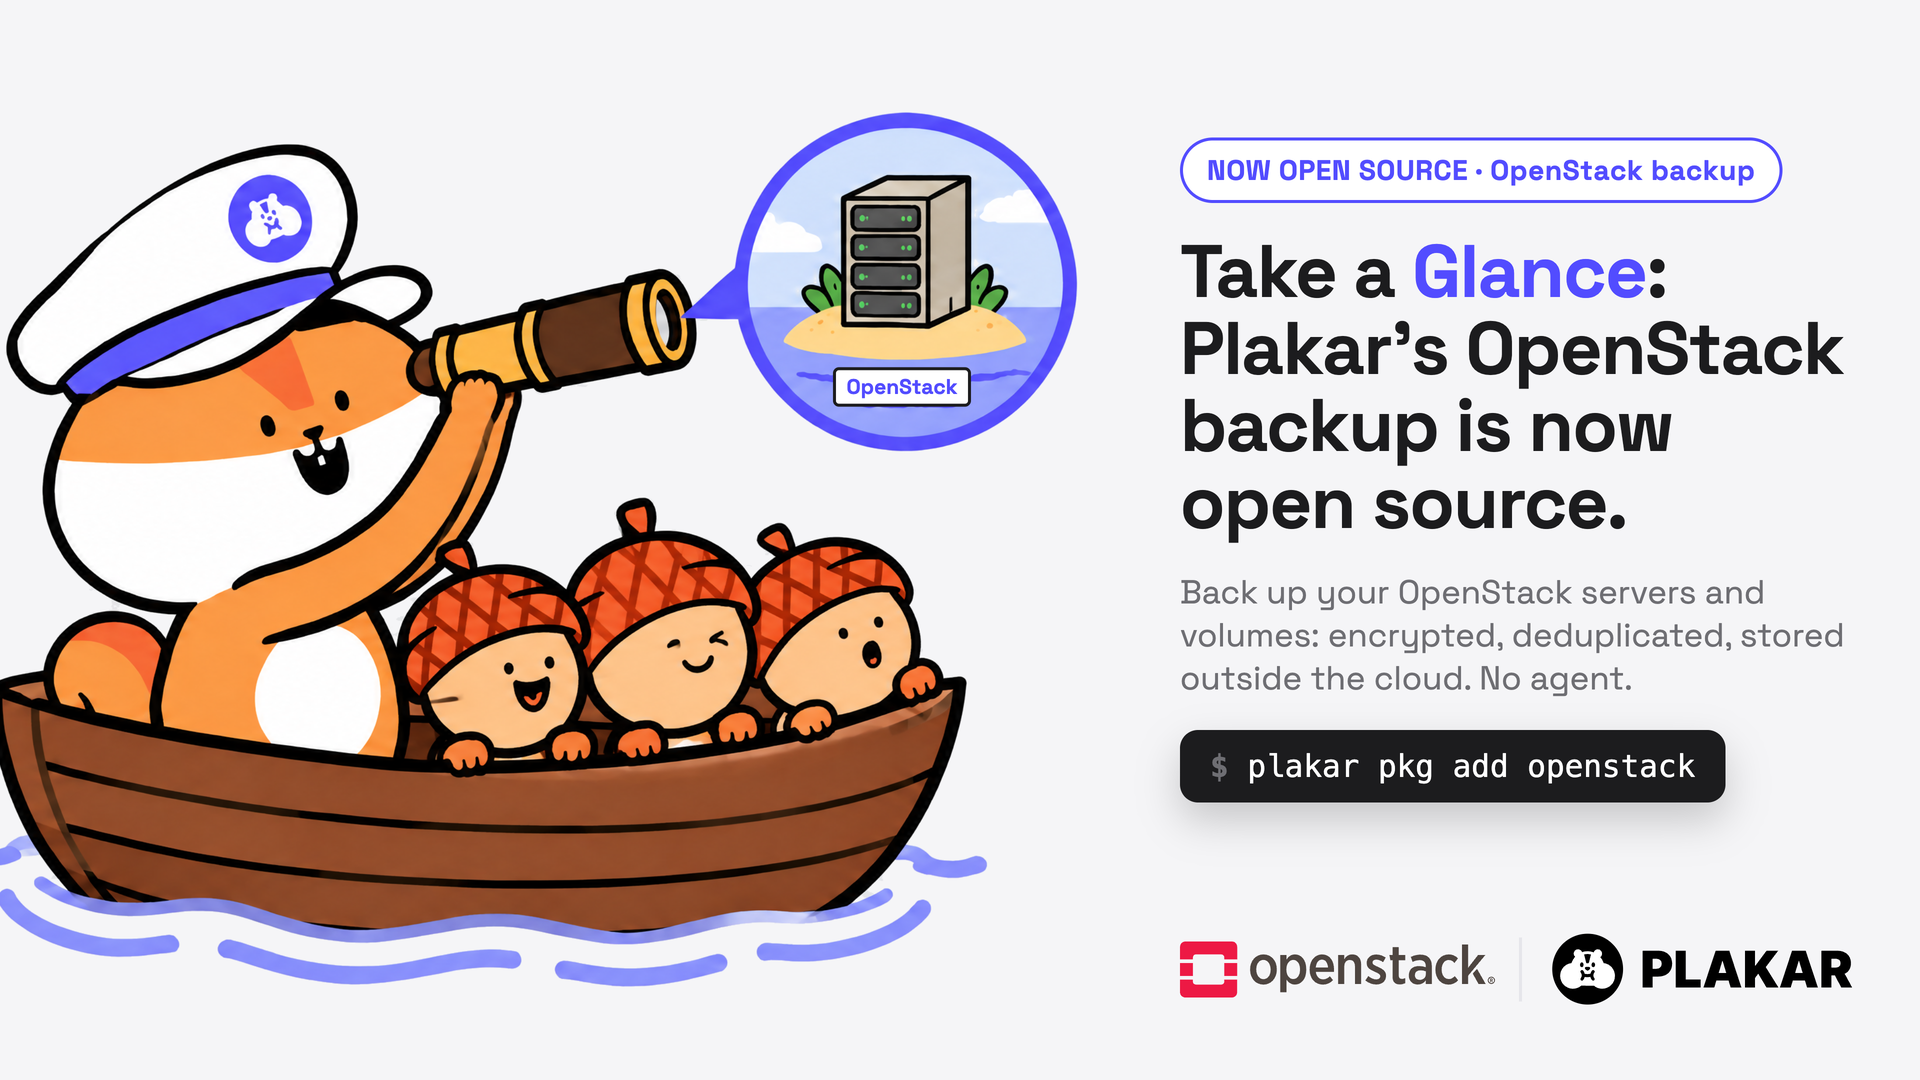
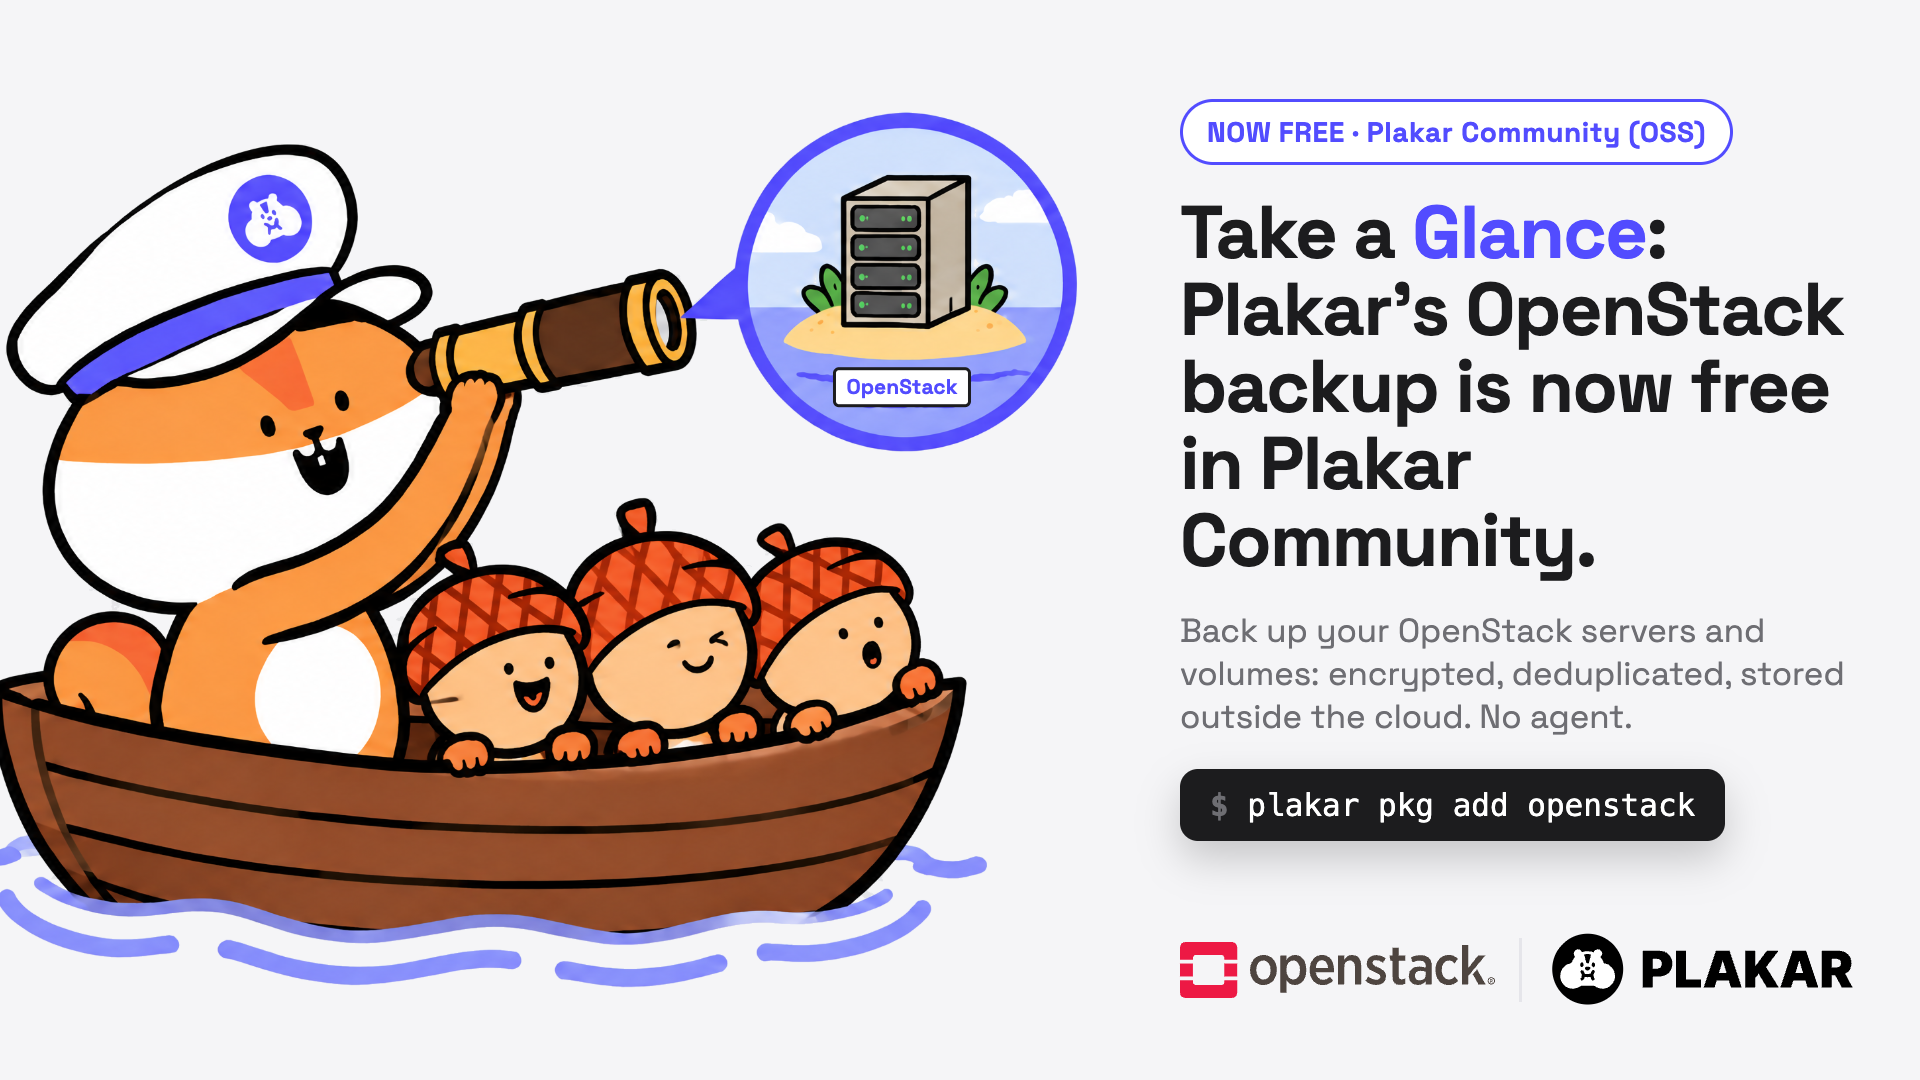
blog: position OpenStack backup as free in Plakar Community
Retitle the post and featured image around Plakar Community (OSS)
instead of open source, and capitalize Plakar in prose.

diff --git a/content/posts/2026-10-22-backing-up-openstack-with-plakar/index.md b/content/posts/2026-10-22-backing-up-openstack-with-plakar/index.md
@@ -1,9 +1,10 @@
 ---
-title: "Take a Glance: plakar's OpenStack backup is now open source"
+title:
+  "Take a Glance: Plakar's OpenStack backup is now free in Plakar Community"
 summary:
-  "plakar's OpenStack backup is now open source: back up and restore Cinder
-  volumes and Nova servers through the OpenStack APIs. No agent. Encrypted and
-  deduplicated."
+  "Plakar's OpenStack backup is now free in Plakar Community (OSS): back up and
+  restore Cinder volumes and Nova servers through the OpenStack APIs. No agent.
+  Encrypted and deduplicated."
 slug: "backing-up-openstack-with-plakar"
 date: "2026-10-22T00:00:00+14:00"
 authors:
@@ -14,7 +15,6 @@ tags:
   - nova
   - cinder
   - backup
-  - open-source
 category: "technology"
 featured-scope:
   - header
@@ -22,21 +22,21 @@ featured-scope:
 
 **TL;DR:**
 
-> Our OpenStack integration, which first shipped in Plakar Control Plane, is
-> now open source and available to everyone in plakar. It backs up and restores
-> Cinder volumes and Nova servers through the OpenStack APIs only, with no agent
-> to install. Backups are encrypted, deduplicated and stored outside the cloud,
-> on any OpenStack cloud, OVHcloud Public Cloud included.
+> Our OpenStack integration, which first shipped in Plakar Control Plane, is now
+> free for everyone in Plakar Community (OSS). It backs up and restores Cinder
+> volumes and Nova servers through the OpenStack APIs only, with no agent to
+> install. Backups are encrypted, deduplicated and stored outside the cloud, on
+> any OpenStack cloud, OVHcloud Public Cloud included.
 
 ---
 
-## Why we built an OpenStack integration, and why we are opening it up
+## Why we built an OpenStack integration, and why we are making it free
 
 We built this integration first and foremost because a large part of Europe's
 independent cloud runs on OpenStack: OVHcloud, Open Telekom Cloud, Cleura,
 Exoscale, etc. In the US the picture is different. AWS, Azure and Google Cloud
-run their own stacks, but OpenStack is still common inside the private clouds
-of large companies, in the telco and higher education sectors for instance.
+run their own stacks, but OpenStack is still common inside the private clouds of
+large companies, in the telco and higher education sectors for instance.
 Wherever it runs, it holds data that needs a real backup. The good news is that
 OpenStack offers truly open APIs, so you can move from one provider to another.
 
@@ -46,30 +46,30 @@ lives in the same Cinder backend as the volume it protects. If that backend is
 lost, wiped or encrypted by an attacker, the snapshot goes with it. The way we
 see it, a backup should be offsite, and you have to hold the keys.
 
-That is also why we are opening it up. The integration was first shipped in
-Plakar Control Plane; today we are open sourcing it and making it available in
-Plakar Community. If strategic autonomy is why you chose OpenStack, you should
-be able to read the code that backs it up, and run it without asking anyone.
+That is also why we are making it free. The integration was first shipped in
+Plakar Control Plane; today it is available to everyone in Plakar Community
+(OSS). If strategic autonomy is why you chose OpenStack, you should be able to
+back it up without asking anyone.
 
-## How plakar backs up OpenStack volumes
+## How Plakar backs up OpenStack volumes
 
 Here is the thing about OpenStack: no API reads a snapshot's bytes. The only
 service that will hand you a disk is Glance, the image service. So every backup
 takes a detour. (Yes, that is where the title comes from.)
 
-![plakar backs up an OpenStack Cinder volume through a snapshot, a temporary volume and a Glance image into a Kloset store](./openstack-volume-backup-flow.png)
+![Plakar backs up an OpenStack Cinder volume through a snapshot, a temporary volume and a Glance image into a Kloset store](./openstack-volume-backup-flow.png)
 
 ### A volume backup in four steps
 
-1. plakar snapshots the volume. If the volume is in use, the copy is
+1. Plakar snapshots the volume. If the volume is in use, the copy is
    crash-consistent: what you would get after pulling the power cord.
 2. It creates a temporary volume from the snapshot and uploads it to Glance as
    an image.
-3. It streams the image into plakar, which chunks it, keeps only the chunks it
+3. It streams the image into Plakar, which chunks it, keeps only the chunks it
    has never seen, then compresses and encrypts them into a
    [Kloset store](/posts/2025-04-29/kloset-the-immutable-data-store/).
 4. It deletes the image, the temporary volume and the snapshot. Cinder is not
-   always ready to delete right away, so plakar waits up to 15 minutes for each
+   always ready to delete right away, so Plakar waits up to 15 minutes for each
    one.
 
 ### Servers, restores and limits
@@ -80,16 +80,14 @@ project or region if you want), or onto the server you already have.
 
 ## Getting started
 
-So, to sum up: plakar talks to the OpenStack APIs (Keystone, Cinder, Nova and
-Glance) with an application credential, so nothing is installed in your cloud
-or in your guests. It works on any OpenStack cloud; on OVHcloud Public Cloud,
-you create the application credential in the Horizon dashboard and you are
-done. And the OpenStack integration is now open source, in the
-[integrations repo](https://github.com/PlakarKorp/integrations/tree/main/openstack)
-under the ISC license, like the plakar CLI and the Kloset format.
+So, to sum up: Plakar talks to the OpenStack APIs (Keystone, Cinder, Nova and
+Glance) with an application credential, so nothing is installed in your cloud or
+in your guests. It works on any OpenStack cloud; on OVHcloud Public Cloud, you
+create the application credential in the Horizon dashboard and you are done. And
+the OpenStack integration is now free for everyone in Plakar Community (OSS).
 
-[Download plakar](/download/), then install the package (pre-built packages
-need a free plakar account):
+[Download Plakar](/download/), then install the package (pre-built packages need
+a free Plakar account):
 
 ```bash
 $ plakar login
